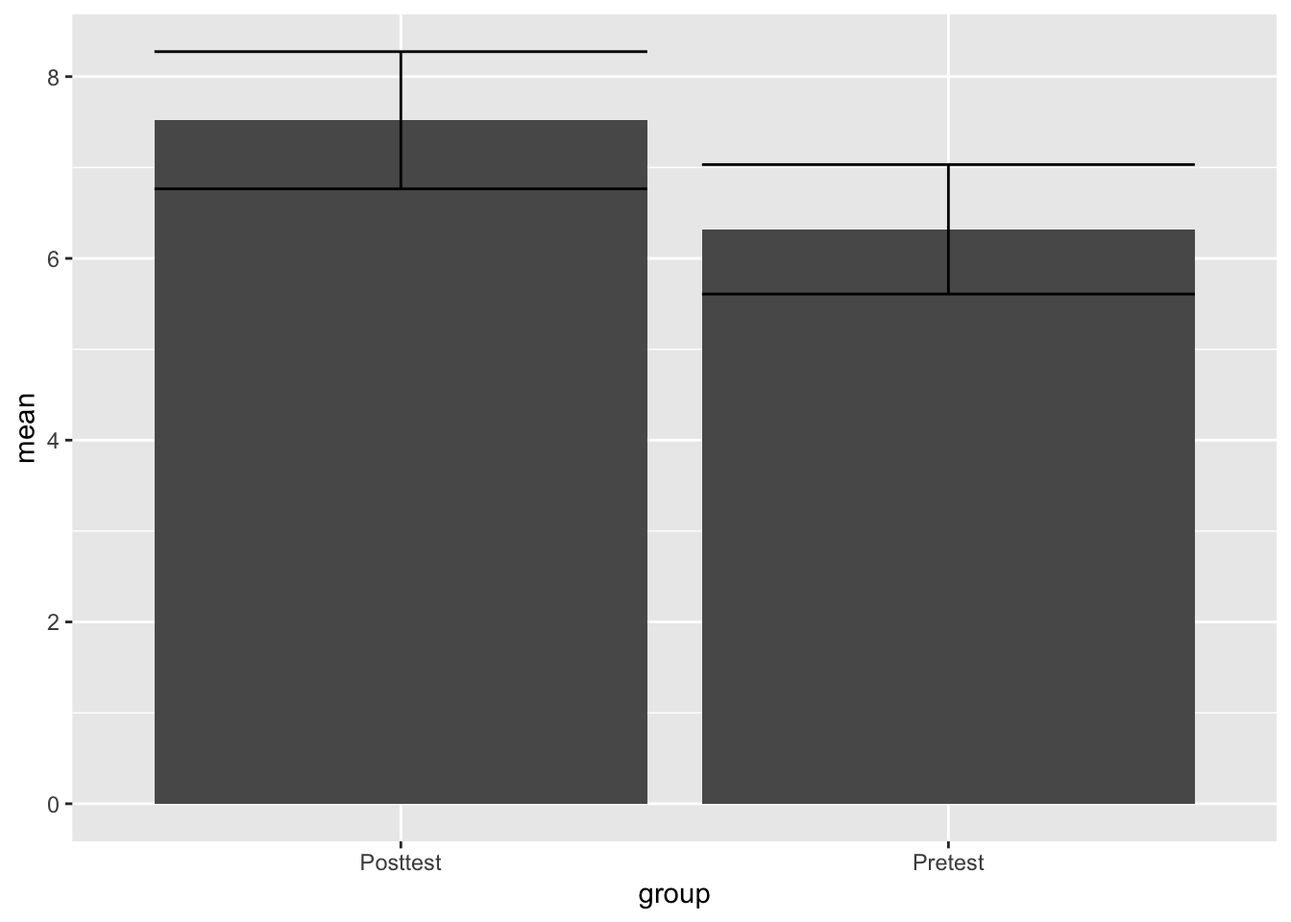
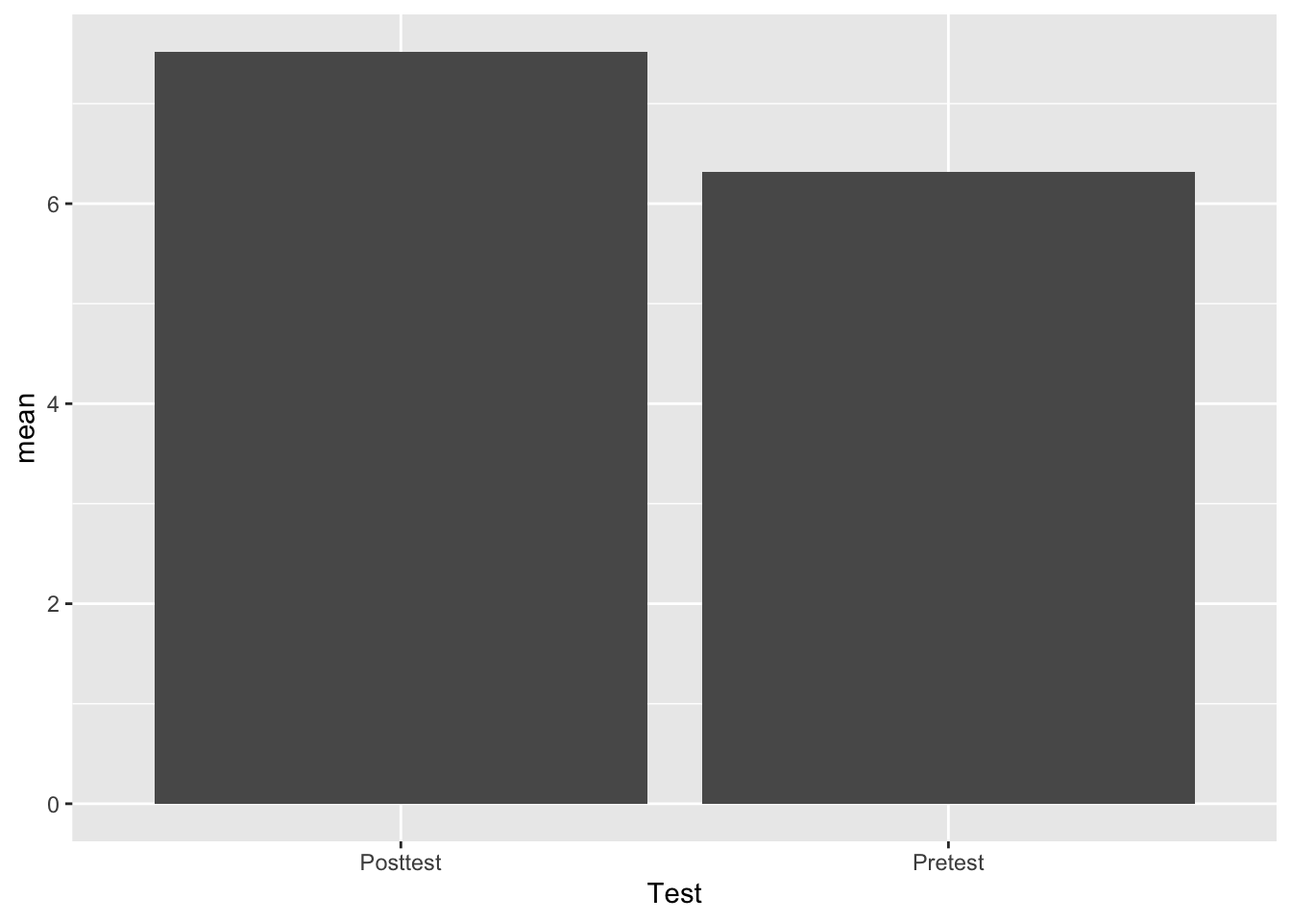
Updated Paired samples t test page

diff --git a/Paired Samples t test.html b/Paired Samples t test.html
@@ -578,6 +578,7 @@ window.Quarto = {
   <li><a href="#hypothesis-assumptions" id="toc-hypothesis-assumptions" class="nav-link" data-scroll-target="#hypothesis-assumptions">Hypothesis Assumptions</a></li>
   <li><a href="#standard-error-of-the-differences" id="toc-standard-error-of-the-differences" class="nav-link" data-scroll-target="#standard-error-of-the-differences">Standard error of the Differences</a></li>
   <li><a href="#t-distribution" id="toc-t-distribution" class="nav-link" data-scroll-target="#t-distribution"><em>t</em> Distribution</a></li>
+  <li><a href="#example-using-r-studio" id="toc-example-using-r-studio" class="nav-link" data-scroll-target="#example-using-r-studio">Example Using R Studio</a></li>
   </ul>
 </nav>
     </div>
@@ -613,22 +614,22 @@ window.Quarto = {
 <p><em>Make sure to read the description of the independent t-test before moving to the paired t-test</em></p>
 <section id="books-for-reference" class="level3">
 <h3 class="anchored" data-anchor-id="books-for-reference">Books for Reference</h3>
-<p>Here’s two books that would be good to reference for this discussion.</p>
+<p>Here are two books that would be good to reference for this discussion.</p>
 <ul>
 <li><p>Chapter 10 from Field, A. (2017). <em>Discovering Statistics Using IBM SPSS Statistics</em> (5th Edition). SAGE Publications, Ltd.&nbsp;(UK).</p></li>
-<li><p>Chapter 13 &amp; 14 from Pagano, R. (2010). <em>Understanding Statistics in the Behavioral Sciences</em> (9th Edition). Wadsworth.</p></li>
+<li><p>Chapters 13 &amp; 14 from Pagano, R. (2010). <em>Understanding Statistics in the Behavioral Sciences</em> (9th Edition). Wadsworth.</p></li>
 </ul>
 </section>
 <section id="hypotheses-in-the-t-test" class="level3">
 <h3 class="anchored" data-anchor-id="hypotheses-in-the-t-test">Hypotheses in the t-test</h3>
-<p>The paired samples t-test is very similar to the independent t-test and the basic assumptions regarding the the two groups are the same.</p>
+<p>The paired samples t-test is very similar to the independent t-test and the basic assumptions regarding the two groups are the same.</p>
 <blockquote class="blockquote">
-<p>Null Hypothesis - Experimental Group = Control Group</p>
+<p>Null Hypothesis - Experimental Condition = Control Condition</p>
 </blockquote>
 <blockquote class="blockquote">
-<p>Alternative Hypothesis - Experimental Group <span class="math inline">\(\neq\)</span> Control Group</p>
+<p>Alternative Hypothesis - Experimental Condition <span class="math inline">\(\neq\)</span> Control Condition</p>
 </blockquote>
-<p>The difference in the paired samples t-test is that a single group goes through both the experimental and control conditions. The control condition is sometime referred to as the <em>baseline</em>, it’s the measurement of a dependent variable without the presence of the independent variable.</p>
+<p>The difference in the paired samples t-test is that a single group goes through both the experimental and control conditions. The control condition is sometimes referred to as the <em>baseline</em>, it’s the measurement of a dependent variable without the presence of the independent variable.</p>
 </section>
 <section id="example-treating-depression" class="level3">
 <h3 class="anchored" data-anchor-id="example-treating-depression">Example: Treating Depression</h3>
@@ -653,16 +654,33 @@ t = \frac{\bar D - \mu_{D}}{\frac{s_{D}}{\sqrt{n}}}
 </section>
 <section id="mean-of-the-null-population" class="level3">
 <h3 class="anchored" data-anchor-id="mean-of-the-null-population">Mean of the Null Population</h3>
-<p>The second element to look at is the mean of the population for difference scores assuming the null hypothesis is true <span class="math inline">\(\mu_{D}\)</span>. Remember that the Null hypothesis assumes no difference between the sample means, so it assumes that this sample of differences scores comes from a population with zero difference or has a mean value of 0.</p>
+<p>The second element to look at is the mean of the population for difference scores assuming the null hypothesis is true <span class="math inline">\(\mu_{D}\)</span>. Remember that the Null hypothesis assumes no difference, so it assumes that this sample of difference scores comes from a population of difference scores with a mean value of 0.</p>
 <p><span class="math display">\[
 \mu_{D}=0
 \]</span></p>
-<p>Since this value is zero, it basically falls out of the equation, but it does remind us of the basis for this kind of t-test. The comparison in the formula is between a sample and a population. However, in this cases it’s a sample of difference scores compared to a population of difference scores with an assumed mean of zero.</p>
+<p>Since this value is zero, it basically falls out of the equation, but it does remind us of the basis for this kind of t-test. The comparison in the formula is between a sample and a population. However, in this case it’s a sample of difference scores compared to a population of difference scores with an assumed mean of zero.</p>
+<div class="cell">
+<div class="cell-output-display">
+<div>
+<figure class="figure">
+<p><img src="Paired-Samples-t-test_files/figure-html/unnamed-chunk-1-1.png" class="img-fluid figure-img" width="672"></p>
+</figure>
+</div>
+</div>
+</div>
 </section>
 <section id="hypothesis-assumptions" class="level3">
 <h3 class="anchored" data-anchor-id="hypothesis-assumptions">Hypothesis Assumptions</h3>
+<p>Written in symbols, the hypotheses are about the population mean of the difference scores <span class="math inline">\(\mu_{D}\)</span>, not the sample means:</p>
 <blockquote class="blockquote">
-<p>Null Hypothesis - The sample can reasonably be said to have come from a popultion of differnce scores with a mean of zero. Any difference between the means is the result of measurement error</p>
+<p>Null Hypothesis - <span class="math inline">\(\mu_{D} = 0\)</span></p>
+</blockquote>
+<blockquote class="blockquote">
+<p>Alternative Hypothesis - <span class="math inline">\(\mu_{D} \neq 0\)</span></p>
+</blockquote>
+<p>Or, stated in words:</p>
+<blockquote class="blockquote">
+<p>Null Hypothesis - The sample can reasonably be said to have come from a population of difference scores with a mean of zero. Any difference between the means is the result of measurement error</p>
 </blockquote>
 <blockquote class="blockquote">
 <p>Alternative Hypothesis - The sample <em>can not</em> reasonably be said to have come from a population of difference scores with a mean of zero because the difference is too great and not the result of measurement error.</p>
@@ -684,7 +702,10 @@ t = \frac{\bar D - \mu_{D}}{\frac{s_{D}}{\sqrt{n}}}
 <p>The sampling distribution of t is a probability distribution of t values that would occur if all possible different samples of a fixed size N were drawn from the null hypothesis population (Pagano, p.&nbsp;320)</p>
 </blockquote>
 <p>The t distribution varies based on the degrees of freedom, which is directly related to N. Just like the z distribution, the t distribution has a mean of zero and as t values get larger, they are situated on the tails of the distribution as either positive or negative numbers. Just like with z scores, the larger the t score the less likely the sample of obtained difference scores can reasonably be assumed to have come from a population of difference scores with a mean of zero.</p>
-<p>###Example using R Studio For the example import the following dataset.</p>
+</section>
+<section id="example-using-r-studio" class="level3">
+<h3 class="anchored" data-anchor-id="example-using-r-studio">Example Using R Studio</h3>
+<p>For the example, import the following dataset.</p>
 <div class="cell">
 <div class="code-copy-outer-scaffold"><div class="sourceCode cell-code" id="cb1"><pre class="sourceCode r code-with-copy"><code class="sourceCode r"><span id="cb1-1"><a href="#cb1-1" aria-hidden="true" tabindex="-1"></a>ch14ds1 <span class="ot">&lt;-</span> <span class="fu">read_csv</span>(<span class="st">"https://github.com/jvanster/Psy_300_Datasets/raw/refs/heads/main/ch14ds1.csv"</span>, <span class="at">show_col_types =</span> <span class="cn">FALSE</span>)</span></code></pre></div><button title="Copy to Clipboard" class="code-copy-button"><i class="bi"></i></button></div>
 </div>
@@ -722,7 +743,7 @@ t = \frac{\bar D - \mu_{D}}{\frac{s_{D}}{\sqrt{n}}}
 25       8       12</code></pre>
 </div>
 </div>
-<p>Notice that this is a fairly straightforward pre vs.&nbsp;posttest dataset.</p>
+<p>Notice that this is a fairly straightforward pre vs.&nbsp;posttest dataset. This is a different example from the depression study above: the dataset contains pretest and posttest scores for 25 people, and higher scores indicate better performance.</p>
 <p>Use the summary command to look at the descriptive statistics</p>
 <div class="cell">
 <div class="code-copy-outer-scaffold"><div class="sourceCode cell-code" id="cb4"><pre class="sourceCode r code-with-copy"><code class="sourceCode r"><span id="cb4-1"><a href="#cb4-1" aria-hidden="true" tabindex="-1"></a><span class="fu">summary</span>(ch14ds1)</span></code></pre></div><button title="Copy to Clipboard" class="code-copy-button"><i class="bi"></i></button></div>
@@ -743,7 +764,7 @@ t = \frac{\bar D - \mu_{D}}{\frac{s_{D}}{\sqrt{n}}}
 <pre><code>[1] 1.2</code></pre>
 </div>
 </div>
-<p>Of course, we need to determine whether this difference is significant or not. So let’s use r to run the paired samples t test. Notice that the code is fairly straightforward. Start with the <em>t.test</em> command and then list the two variables that are being analyzed, followed by lettting R know you want to perform a paired test <em>paired = TRUE</em>.</p>
+<p>Of course, we need to determine whether this difference is significant or not. So let’s use R to run the paired samples t test. Notice that the code is fairly straightforward. Start with the <em>t.test</em> command and then list the two variables that are being analyzed, followed by letting R know you want to perform a paired test <em>paired = TRUE</em>.</p>
 <div class="cell">
 <div class="code-copy-outer-scaffold"><div class="sourceCode cell-code" id="cb8"><pre class="sourceCode r code-with-copy"><code class="sourceCode r"><span id="cb8-1"><a href="#cb8-1" aria-hidden="true" tabindex="-1"></a><span class="fu">t.test</span>(ch14ds1<span class="sc">$</span>Posttest, ch14ds1<span class="sc">$</span>Pretest, <span class="at">paired =</span> <span class="cn">TRUE</span>)</span></code></pre></div><button title="Copy to Clipboard" class="code-copy-button"><i class="bi"></i></button></div>
 <div class="cell-output cell-output-stdout">
@@ -792,30 +813,44 @@ mean difference
 </div>
 </div>
 <p>The data is set up for a paired t test, so it includes 2 numeric variables. This is a problem because a single factor variable is missing that would be used to describe our two bars (i.e.&nbsp;pre and post test).</p>
-<p>Thus, we need to create a second dataset or dataframe that has a factor variable (“Group”) and numeric (“Test”) variable. A new object is created called “TestData”. The factor variable is created from scratch using the “rep” repeat function and then adding together the Pre and Post Test scores into a single numeric variable.</p>
+<p>Thus, we need to create a second dataset or dataframe that has a factor variable (“Test”) and numeric (“Score”) variable. A new object is created called “TestData”. We’ll use a feature of tidyverse called <em>pivot longer</em> that re-shapes the dataset</p>
 <div class="cell">
-<div class="code-copy-outer-scaffold"><div class="sourceCode cell-code" id="cb14"><pre class="sourceCode r code-with-copy"><code class="sourceCode r"><span id="cb14-1"><a href="#cb14-1" aria-hidden="true" tabindex="-1"></a>TestData <span class="ot">&lt;-</span> <span class="fu">data.frame</span>(</span>
-<span id="cb14-2"><a href="#cb14-2" aria-hidden="true" tabindex="-1"></a>            <span class="at">group=</span> <span class="fu">rep</span>(<span class="fu">c</span>(<span class="st">"Pretest"</span>, <span class="st">"Posttest"</span>), <span class="at">each=</span><span class="dv">25</span>),</span>
-<span id="cb14-3"><a href="#cb14-3" aria-hidden="true" tabindex="-1"></a>            <span class="at">Test =</span> <span class="fu">c</span>(ch14ds1<span class="sc">$</span>Pretest, ch14ds1<span class="sc">$</span>Posttest)</span>
-<span id="cb14-4"><a href="#cb14-4" aria-hidden="true" tabindex="-1"></a>            )</span></code></pre></div><button title="Copy to Clipboard" class="code-copy-button"><i class="bi"></i></button></div>
+<div class="code-copy-outer-scaffold"><div class="sourceCode cell-code" id="cb14"><pre class="sourceCode r code-with-copy"><code class="sourceCode r"><span id="cb14-1"><a href="#cb14-1" aria-hidden="true" tabindex="-1"></a>TestData <span class="ot">&lt;-</span> ch14ds1 <span class="sc">|&gt;</span> </span>
+<span id="cb14-2"><a href="#cb14-2" aria-hidden="true" tabindex="-1"></a>  <span class="fu">pivot_longer</span>(<span class="fu">everything</span>(), <span class="at">names_to =</span> <span class="st">"Test"</span>, <span class="at">values_to =</span> <span class="st">"Score"</span>)</span>
+<span id="cb14-3"><a href="#cb14-3" aria-hidden="true" tabindex="-1"></a>TestData</span></code></pre></div><button title="Copy to Clipboard" class="code-copy-button"><i class="bi"></i></button></div>
+<div class="cell-output cell-output-stdout">
+<pre><code># A tibble: 50 × 2
+   Test     Score
+   &lt;chr&gt;    &lt;dbl&gt;
+ 1 Pretest      3
+ 2 Posttest     7
+ 3 Pretest      5
+ 4 Posttest     8
+ 5 Pretest      4
+ 6 Posttest     6
+ 7 Pretest      6
+ 8 Posttest     7
+ 9 Pretest      5
+10 Posttest     8
+# ℹ 40 more rows</code></pre>
+</div>
 </div>
 <p>Next, find the descriptive statistics for this new dataset</p>
 <div class="cell">
-<div class="code-copy-outer-scaffold"><div class="sourceCode cell-code" id="cb15"><pre class="sourceCode r code-with-copy"><code class="sourceCode r"><span id="cb15-1"><a href="#cb15-1" aria-hidden="true" tabindex="-1"></a><span class="fu">library</span>(dplyr)</span>
-<span id="cb15-2"><a href="#cb15-2" aria-hidden="true" tabindex="-1"></a>Test_Descriptives <span class="ot">&lt;-</span> TestData <span class="sc">%&gt;%</span></span>
-<span id="cb15-3"><a href="#cb15-3" aria-hidden="true" tabindex="-1"></a>  <span class="fu">group_by</span>(group) <span class="sc">%&gt;%</span></span>
-<span id="cb15-4"><a href="#cb15-4" aria-hidden="true" tabindex="-1"></a>  <span class="fu">summarize</span>(<span class="at">n =</span> <span class="fu">n</span>(),</span>
-<span id="cb15-5"><a href="#cb15-5" aria-hidden="true" tabindex="-1"></a>            <span class="at">mean =</span> <span class="fu">mean</span>(Test),</span>
-<span id="cb15-6"><a href="#cb15-6" aria-hidden="true" tabindex="-1"></a>            <span class="at">sd =</span> <span class="fu">sd</span>(Test),</span>
-<span id="cb15-7"><a href="#cb15-7" aria-hidden="true" tabindex="-1"></a>            <span class="at">se =</span> sd <span class="sc">/</span> <span class="fu">sqrt</span>(n),</span>
-<span id="cb15-8"><a href="#cb15-8" aria-hidden="true" tabindex="-1"></a>            <span class="at">ci =</span> <span class="fu">qt</span>(<span class="fl">0.975</span>, <span class="at">df =</span> n <span class="sc">-</span> <span class="dv">1</span>) <span class="sc">*</span> sd <span class="sc">/</span> <span class="fu">sqrt</span>(n))</span></code></pre></div><button title="Copy to Clipboard" class="code-copy-button"><i class="bi"></i></button></div>
+<div class="code-copy-outer-scaffold"><div class="sourceCode cell-code" id="cb16"><pre class="sourceCode r code-with-copy"><code class="sourceCode r"><span id="cb16-1"><a href="#cb16-1" aria-hidden="true" tabindex="-1"></a>Test_Descriptives <span class="ot">&lt;-</span> TestData <span class="sc">|&gt;</span> </span>
+<span id="cb16-2"><a href="#cb16-2" aria-hidden="true" tabindex="-1"></a>  <span class="fu">group_by</span>(Test) <span class="sc">|&gt;</span> </span>
+<span id="cb16-3"><a href="#cb16-3" aria-hidden="true" tabindex="-1"></a>  <span class="fu">summarize</span>(<span class="at">n =</span> <span class="fu">n</span>(),</span>
+<span id="cb16-4"><a href="#cb16-4" aria-hidden="true" tabindex="-1"></a>            <span class="at">mean =</span> <span class="fu">mean</span>(Score),</span>
+<span id="cb16-5"><a href="#cb16-5" aria-hidden="true" tabindex="-1"></a>            <span class="at">sd =</span> <span class="fu">sd</span>(Score),</span>
+<span id="cb16-6"><a href="#cb16-6" aria-hidden="true" tabindex="-1"></a>            <span class="at">se =</span> sd <span class="sc">/</span> <span class="fu">sqrt</span>(n),</span>
+<span id="cb16-7"><a href="#cb16-7" aria-hidden="true" tabindex="-1"></a>            <span class="at">ci =</span> <span class="fu">qt</span>(<span class="fl">0.975</span>, <span class="at">df =</span> n <span class="sc">-</span> <span class="dv">1</span>) <span class="sc">*</span> sd <span class="sc">/</span> <span class="fu">sqrt</span>(n))</span></code></pre></div><button title="Copy to Clipboard" class="code-copy-button"><i class="bi"></i></button></div>
 </div>
 <p>Check the descriptives and make sure they turned out ok.</p>
 <div class="cell">
-<div class="code-copy-outer-scaffold"><div class="sourceCode cell-code" id="cb16"><pre class="sourceCode r code-with-copy"><code class="sourceCode r"><span id="cb16-1"><a href="#cb16-1" aria-hidden="true" tabindex="-1"></a>Test_Descriptives</span></code></pre></div><button title="Copy to Clipboard" class="code-copy-button"><i class="bi"></i></button></div>
+<div class="code-copy-outer-scaffold"><div class="sourceCode cell-code" id="cb17"><pre class="sourceCode r code-with-copy"><code class="sourceCode r"><span id="cb17-1"><a href="#cb17-1" aria-hidden="true" tabindex="-1"></a>Test_Descriptives</span></code></pre></div><button title="Copy to Clipboard" class="code-copy-button"><i class="bi"></i></button></div>
 <div class="cell-output cell-output-stdout">
 <pre><code># A tibble: 2 × 6
-  group        n  mean    sd    se    ci
+  Test         n  mean    sd    se    ci
   &lt;chr&gt;    &lt;int&gt; &lt;dbl&gt; &lt;dbl&gt; &lt;dbl&gt; &lt;dbl&gt;
 1 Posttest    25  7.52  1.83 0.366 0.755
 2 Pretest     25  6.32  1.73 0.345 0.712</code></pre>
@@ -823,26 +858,10 @@ mean difference
 </div>
 <p>Finally, create a basic bar graph</p>
 <div class="cell">
-<div class="code-copy-outer-scaffold"><div class="sourceCode cell-code" id="cb18"><pre class="sourceCode r code-with-copy"><code class="sourceCode r"><span id="cb18-1"><a href="#cb18-1" aria-hidden="true" tabindex="-1"></a><span class="fu">ggplot</span>(Test_Descriptives, </span>
-<span id="cb18-2"><a href="#cb18-2" aria-hidden="true" tabindex="-1"></a>       <span class="fu">aes</span>(<span class="at">x =</span> group, </span>
-<span id="cb18-3"><a href="#cb18-3" aria-hidden="true" tabindex="-1"></a>           <span class="at">y =</span> mean)) <span class="sc">+</span></span>
-<span id="cb18-4"><a href="#cb18-4" aria-hidden="true" tabindex="-1"></a>  <span class="fu">geom_bar</span>(<span class="at">stat =</span> <span class="st">"identity"</span>)</span></code></pre></div><button title="Copy to Clipboard" class="code-copy-button"><i class="bi"></i></button></div>
-<div class="cell-output-display">
-<div>
-<figure class="figure">
-<p><img src="Paired-Samples-t-test_files/figure-html/unnamed-chunk-11-1.png" class="img-fluid figure-img" width="672"></p>
-</figure>
-</div>
-</div>
-</div>
-<p>Then let’s add in some error bars with the <em>geom_errorbar</em> function.</p>
-<div class="cell">
 <div class="code-copy-outer-scaffold"><div class="sourceCode cell-code" id="cb19"><pre class="sourceCode r code-with-copy"><code class="sourceCode r"><span id="cb19-1"><a href="#cb19-1" aria-hidden="true" tabindex="-1"></a><span class="fu">ggplot</span>(Test_Descriptives, </span>
-<span id="cb19-2"><a href="#cb19-2" aria-hidden="true" tabindex="-1"></a>       <span class="fu">aes</span>(<span class="at">x =</span> group, </span>
+<span id="cb19-2"><a href="#cb19-2" aria-hidden="true" tabindex="-1"></a>       <span class="fu">aes</span>(<span class="at">x =</span> Test, </span>
 <span id="cb19-3"><a href="#cb19-3" aria-hidden="true" tabindex="-1"></a>           <span class="at">y =</span> mean)) <span class="sc">+</span></span>
-<span id="cb19-4"><a href="#cb19-4" aria-hidden="true" tabindex="-1"></a>  <span class="fu">geom_bar</span>(<span class="at">stat =</span> <span class="st">"identity"</span>) <span class="sc">+</span></span>
-<span id="cb19-5"><a href="#cb19-5" aria-hidden="true" tabindex="-1"></a>  <span class="fu">geom_errorbar</span>(<span class="fu">aes</span>(<span class="at">ymin=</span>mean<span class="sc">-</span>ci,</span>
-<span id="cb19-6"><a href="#cb19-6" aria-hidden="true" tabindex="-1"></a>                    <span class="at">ymax=</span>mean<span class="sc">+</span>ci))</span></code></pre></div><button title="Copy to Clipboard" class="code-copy-button"><i class="bi"></i></button></div>
+<span id="cb19-4"><a href="#cb19-4" aria-hidden="true" tabindex="-1"></a>  <span class="fu">geom_bar</span>(<span class="at">stat =</span> <span class="st">"identity"</span>)</span></code></pre></div><button title="Copy to Clipboard" class="code-copy-button"><i class="bi"></i></button></div>
 <div class="cell-output-display">
 <div>
 <figure class="figure">
@@ -851,21 +870,14 @@ mean difference
 </div>
 </div>
 </div>
-<p>Finally, let’s make it look really nice</p>
+<p>Then let’s add in some error bars with the <em>geom_errorbar</em> function.</p>
 <div class="cell">
 <div class="code-copy-outer-scaffold"><div class="sourceCode cell-code" id="cb20"><pre class="sourceCode r code-with-copy"><code class="sourceCode r"><span id="cb20-1"><a href="#cb20-1" aria-hidden="true" tabindex="-1"></a><span class="fu">ggplot</span>(Test_Descriptives, </span>
-<span id="cb20-2"><a href="#cb20-2" aria-hidden="true" tabindex="-1"></a>       <span class="fu">aes</span>(<span class="at">x =</span> group,</span>
+<span id="cb20-2"><a href="#cb20-2" aria-hidden="true" tabindex="-1"></a>       <span class="fu">aes</span>(<span class="at">x =</span> Test, </span>
 <span id="cb20-3"><a href="#cb20-3" aria-hidden="true" tabindex="-1"></a>           <span class="at">y =</span> mean)) <span class="sc">+</span></span>
-<span id="cb20-4"><a href="#cb20-4" aria-hidden="true" tabindex="-1"></a>  <span class="fu">theme_minimal</span>() <span class="sc">+</span></span>
-<span id="cb20-5"><a href="#cb20-5" aria-hidden="true" tabindex="-1"></a>  <span class="fu">geom_bar</span>(<span class="at">stat =</span> <span class="st">"identity"</span>, <span class="at">fill=</span><span class="st">"cornflowerblue"</span>) <span class="sc">+</span></span>
-<span id="cb20-6"><a href="#cb20-6" aria-hidden="true" tabindex="-1"></a>  <span class="fu">geom_errorbar</span>(<span class="fu">aes</span>(<span class="at">ymin=</span>mean<span class="sc">-</span>ci,</span>
-<span id="cb20-7"><a href="#cb20-7" aria-hidden="true" tabindex="-1"></a>                    <span class="at">ymax=</span>mean<span class="sc">+</span>ci), <span class="at">width=</span>.<span class="dv">3</span>, <span class="at">size=</span><span class="dv">1</span>) <span class="sc">+</span></span>
-<span id="cb20-8"><a href="#cb20-8" aria-hidden="true" tabindex="-1"></a>  <span class="fu">labs</span>(<span class="at">title =</span> <span class="st">"Change in Performance from Pre to Post Tests"</span>, </span>
-<span id="cb20-9"><a href="#cb20-9" aria-hidden="true" tabindex="-1"></a>       <span class="at">y=</span><span class="st">"Mean Score"</span>, <span class="at">x=</span><span class="st">"Tests"</span>)</span></code></pre></div><button title="Copy to Clipboard" class="code-copy-button"><i class="bi"></i></button></div>
-<div class="cell-output cell-output-stderr">
-<pre><code>Warning: Using `size` aesthetic for lines was deprecated in ggplot2 3.4.0.
-ℹ Please use `linewidth` instead.</code></pre>
-</div>
+<span id="cb20-4"><a href="#cb20-4" aria-hidden="true" tabindex="-1"></a>  <span class="fu">geom_bar</span>(<span class="at">stat =</span> <span class="st">"identity"</span>) <span class="sc">+</span></span>
+<span id="cb20-5"><a href="#cb20-5" aria-hidden="true" tabindex="-1"></a>  <span class="fu">geom_errorbar</span>(<span class="fu">aes</span>(<span class="at">ymin=</span>mean<span class="sc">-</span>ci,</span>
+<span id="cb20-6"><a href="#cb20-6" aria-hidden="true" tabindex="-1"></a>                    <span class="at">ymax=</span>mean<span class="sc">+</span>ci))</span></code></pre></div><button title="Copy to Clipboard" class="code-copy-button"><i class="bi"></i></button></div>
 <div class="cell-output-display">
 <div>
 <figure class="figure">
@@ -874,18 +886,17 @@ mean difference
 </div>
 </div>
 </div>
-<p>You can also flip the columns to make it look cleaner</p>
+<p>Finally, let’s make it look really nice</p>
 <div class="cell">
-<div class="code-copy-outer-scaffold"><div class="sourceCode cell-code" id="cb22"><pre class="sourceCode r code-with-copy"><code class="sourceCode r"><span id="cb22-1"><a href="#cb22-1" aria-hidden="true" tabindex="-1"></a><span class="fu">ggplot</span>(Test_Descriptives, </span>
-<span id="cb22-2"><a href="#cb22-2" aria-hidden="true" tabindex="-1"></a>       <span class="fu">aes</span>(<span class="at">x =</span> group,</span>
-<span id="cb22-3"><a href="#cb22-3" aria-hidden="true" tabindex="-1"></a>           <span class="at">y =</span> mean)) <span class="sc">+</span></span>
-<span id="cb22-4"><a href="#cb22-4" aria-hidden="true" tabindex="-1"></a>  <span class="fu">theme_minimal</span>() <span class="sc">+</span></span>
-<span id="cb22-5"><a href="#cb22-5" aria-hidden="true" tabindex="-1"></a>  <span class="fu">geom_bar</span>(<span class="at">stat =</span> <span class="st">"identity"</span>, <span class="at">fill=</span><span class="st">"cornflowerblue"</span>) <span class="sc">+</span></span>
-<span id="cb22-6"><a href="#cb22-6" aria-hidden="true" tabindex="-1"></a>  <span class="fu">geom_errorbar</span>(<span class="fu">aes</span>(<span class="at">ymin=</span>mean<span class="sc">-</span>ci,</span>
-<span id="cb22-7"><a href="#cb22-7" aria-hidden="true" tabindex="-1"></a>                    <span class="at">ymax=</span>mean<span class="sc">+</span>ci), <span class="at">width=</span>.<span class="dv">3</span>, <span class="at">size=</span><span class="dv">1</span>) <span class="sc">+</span></span>
-<span id="cb22-8"><a href="#cb22-8" aria-hidden="true" tabindex="-1"></a>  <span class="fu">labs</span>(<span class="at">title =</span> <span class="st">"Change in Performance from Pre to Post Tests"</span>, </span>
-<span id="cb22-9"><a href="#cb22-9" aria-hidden="true" tabindex="-1"></a>       <span class="at">y=</span><span class="st">"Mean Score"</span>, <span class="at">x=</span><span class="st">"Tests"</span>) <span class="sc">+</span></span>
-<span id="cb22-10"><a href="#cb22-10" aria-hidden="true" tabindex="-1"></a>  <span class="fu">scale_x_discrete</span>(<span class="at">limits=</span><span class="fu">c</span>(<span class="st">"Pretest"</span>, <span class="st">"Posttest"</span>))</span></code></pre></div><button title="Copy to Clipboard" class="code-copy-button"><i class="bi"></i></button></div>
+<div class="code-copy-outer-scaffold"><div class="sourceCode cell-code" id="cb21"><pre class="sourceCode r code-with-copy"><code class="sourceCode r"><span id="cb21-1"><a href="#cb21-1" aria-hidden="true" tabindex="-1"></a><span class="fu">ggplot</span>(Test_Descriptives, </span>
+<span id="cb21-2"><a href="#cb21-2" aria-hidden="true" tabindex="-1"></a>       <span class="fu">aes</span>(<span class="at">x =</span> Test,</span>
+<span id="cb21-3"><a href="#cb21-3" aria-hidden="true" tabindex="-1"></a>           <span class="at">y =</span> mean)) <span class="sc">+</span></span>
+<span id="cb21-4"><a href="#cb21-4" aria-hidden="true" tabindex="-1"></a>  <span class="fu">theme_minimal</span>() <span class="sc">+</span></span>
+<span id="cb21-5"><a href="#cb21-5" aria-hidden="true" tabindex="-1"></a>  <span class="fu">geom_bar</span>(<span class="at">stat =</span> <span class="st">"identity"</span>, <span class="at">fill=</span><span class="st">"cornflowerblue"</span>) <span class="sc">+</span></span>
+<span id="cb21-6"><a href="#cb21-6" aria-hidden="true" tabindex="-1"></a>  <span class="fu">geom_errorbar</span>(<span class="fu">aes</span>(<span class="at">ymin=</span>mean<span class="sc">-</span>ci,</span>
+<span id="cb21-7"><a href="#cb21-7" aria-hidden="true" tabindex="-1"></a>                    <span class="at">ymax=</span>mean<span class="sc">+</span>ci), <span class="at">width=</span>.<span class="dv">3</span>, <span class="at">linewidth=</span><span class="dv">1</span>) <span class="sc">+</span></span>
+<span id="cb21-8"><a href="#cb21-8" aria-hidden="true" tabindex="-1"></a>  <span class="fu">labs</span>(<span class="at">title =</span> <span class="st">"Change in Performance from Pre to Post Tests"</span>, </span>
+<span id="cb21-9"><a href="#cb21-9" aria-hidden="true" tabindex="-1"></a>       <span class="at">y=</span><span class="st">"Mean Score"</span>, <span class="at">x=</span><span class="st">"Tests"</span>)</span></code></pre></div><button title="Copy to Clipboard" class="code-copy-button"><i class="bi"></i></button></div>
 <div class="cell-output-display">
 <div>
 <figure class="figure">
@@ -894,9 +905,29 @@ mean difference
 </div>
 </div>
 </div>
+<p>You can also flip the columns to make it look cleaner</p>
+<div class="cell">
+<div class="code-copy-outer-scaffold"><div class="sourceCode cell-code" id="cb22"><pre class="sourceCode r code-with-copy"><code class="sourceCode r"><span id="cb22-1"><a href="#cb22-1" aria-hidden="true" tabindex="-1"></a><span class="fu">ggplot</span>(Test_Descriptives, </span>
+<span id="cb22-2"><a href="#cb22-2" aria-hidden="true" tabindex="-1"></a>       <span class="fu">aes</span>(<span class="at">x =</span> Test,</span>
+<span id="cb22-3"><a href="#cb22-3" aria-hidden="true" tabindex="-1"></a>           <span class="at">y =</span> mean)) <span class="sc">+</span></span>
+<span id="cb22-4"><a href="#cb22-4" aria-hidden="true" tabindex="-1"></a>  <span class="fu">theme_minimal</span>() <span class="sc">+</span></span>
+<span id="cb22-5"><a href="#cb22-5" aria-hidden="true" tabindex="-1"></a>  <span class="fu">geom_bar</span>(<span class="at">stat =</span> <span class="st">"identity"</span>, <span class="at">fill=</span><span class="st">"cornflowerblue"</span>) <span class="sc">+</span></span>
+<span id="cb22-6"><a href="#cb22-6" aria-hidden="true" tabindex="-1"></a>  <span class="fu">geom_errorbar</span>(<span class="fu">aes</span>(<span class="at">ymin=</span>mean<span class="sc">-</span>ci,</span>
+<span id="cb22-7"><a href="#cb22-7" aria-hidden="true" tabindex="-1"></a>                    <span class="at">ymax=</span>mean<span class="sc">+</span>ci), <span class="at">width=</span>.<span class="dv">3</span>, <span class="at">linewidth=</span><span class="dv">1</span>) <span class="sc">+</span></span>
+<span id="cb22-8"><a href="#cb22-8" aria-hidden="true" tabindex="-1"></a>  <span class="fu">labs</span>(<span class="at">title =</span> <span class="st">"Change in Performance from Pre to Post Tests"</span>, </span>
+<span id="cb22-9"><a href="#cb22-9" aria-hidden="true" tabindex="-1"></a>       <span class="at">y=</span><span class="st">"Mean Score"</span>, <span class="at">x=</span><span class="st">"Tests"</span>) <span class="sc">+</span></span>
+<span id="cb22-10"><a href="#cb22-10" aria-hidden="true" tabindex="-1"></a>  <span class="fu">scale_x_discrete</span>(<span class="at">limits=</span><span class="fu">c</span>(<span class="st">"Pretest"</span>, <span class="st">"Posttest"</span>))</span></code></pre></div><button title="Copy to Clipboard" class="code-copy-button"><i class="bi"></i></button></div>
+<div class="cell-output-display">
+<div>
+<figure class="figure">
+<p><img src="Paired-Samples-t-test_files/figure-html/unnamed-chunk-15-1.png" class="img-fluid figure-img" width="672"></p>
+</figure>
+</div>
+</div>
+</div>
 <p>Finally, we can write out the results, which is essentially the same format as the independent t test.</p>
 <blockquote class="blockquote">
-<p>On average, scores on the posttest were larger (M = 7.52, SE = .37) than the scores on the pretest (M = 6.32, SE = .35). This difference, 1.2, 95% CI[.19, 2.21], was significant t(24) = 2.45, p = 0.02. The results represented an effect size of d = 0.69.*</p>
+<p>On average, scores on the posttest were higher (M = 7.52, SE = .37) than the scores on the pretest (M = 6.32, SE = .35). This difference, 1.2, 95% CI[.19, 2.21], was significant t(24) = 2.45, p = .022. The results represented an effect size of d = 0.69 (using the pretest standard deviation).</p>
 </blockquote>
 
 
